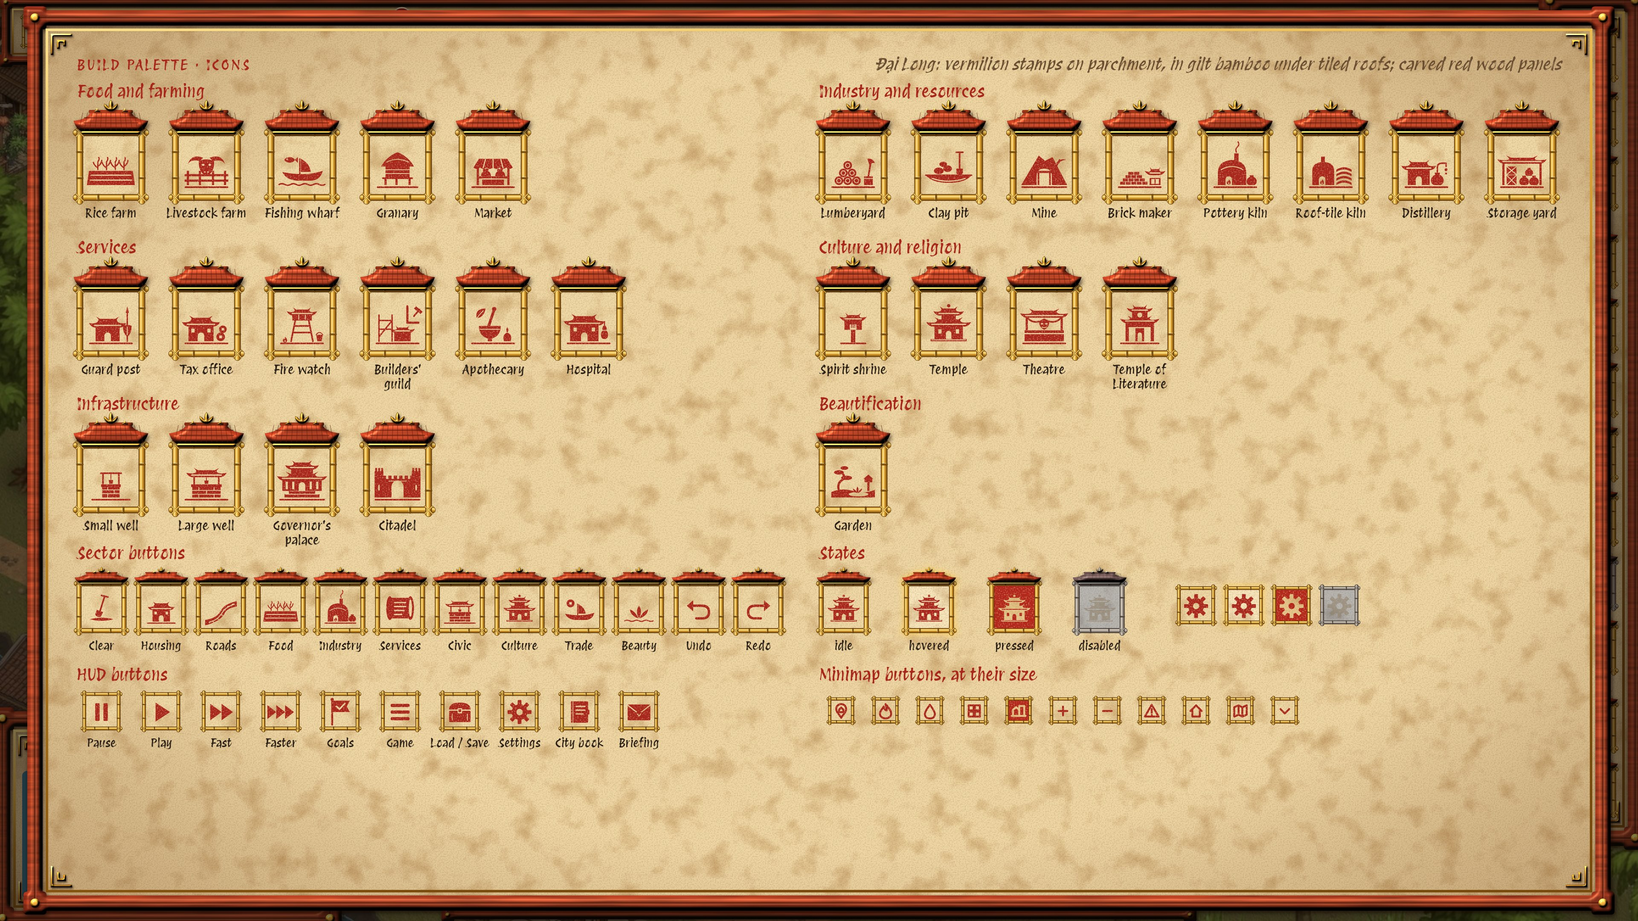
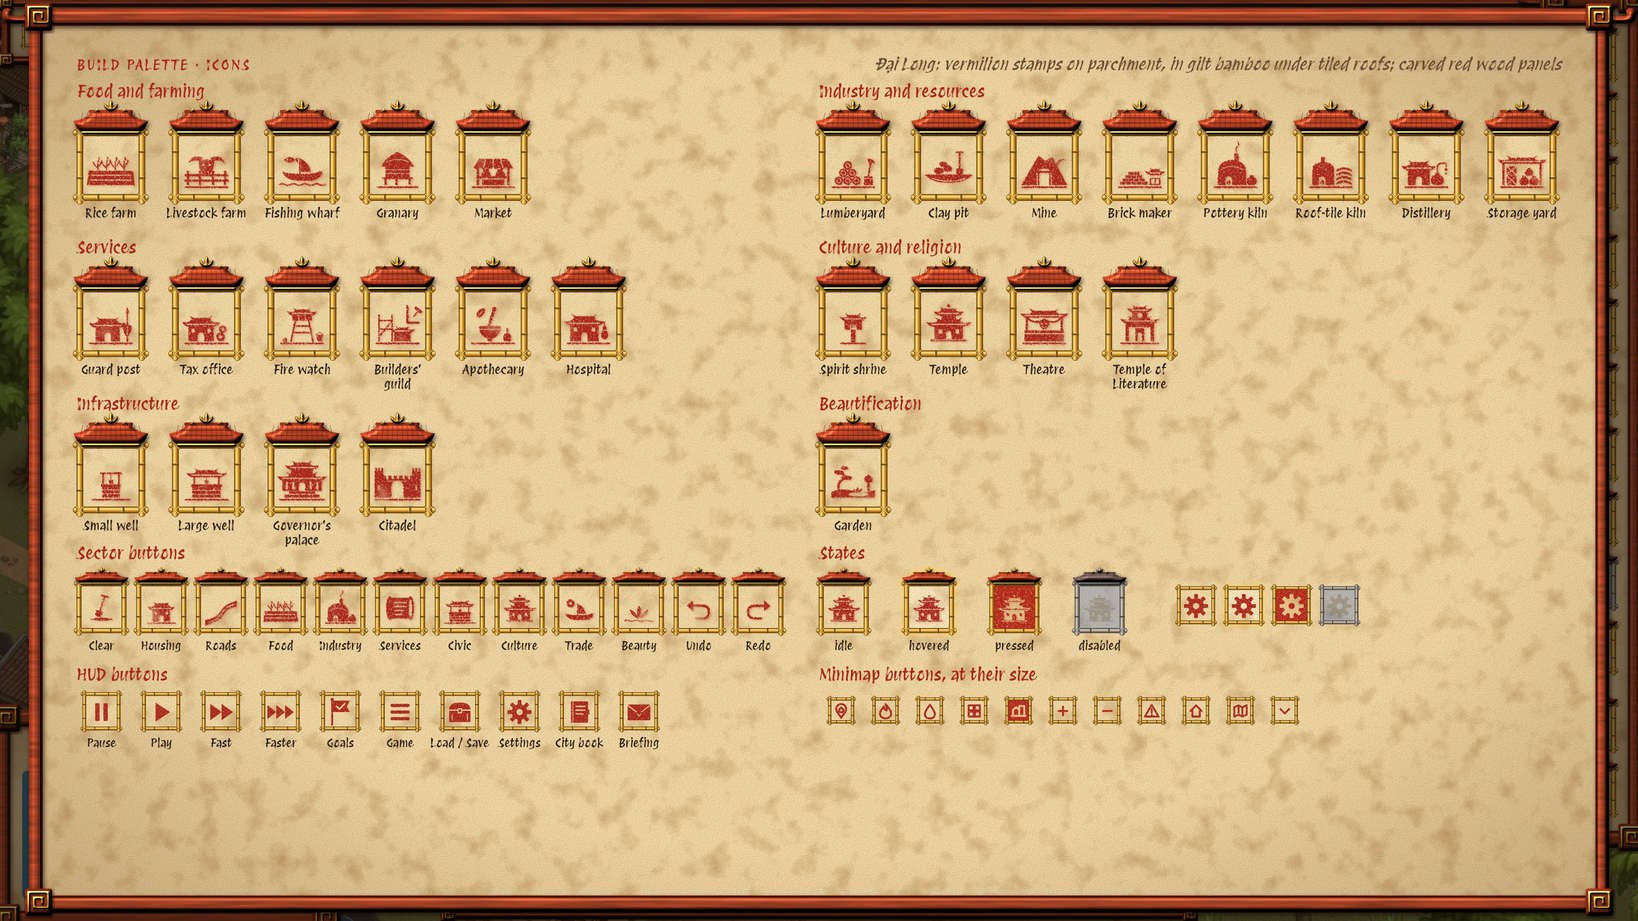
Mockups: goals button first, realm badges, Dai Long's carved frames
The goals button moves to the top bar's left end. Count badges take each
realm's colours. Dai Long's panels become carved wood with a lattice,
ruyi clouds, a lotus medallion and key-pattern corner blocks, all
outside the parchment, without lanterns, after the user's reference;
its stamps are pressed rougher again.

Claude-Session: https://claude.ai/code/session_01E5PQdFiW8ubMzCiZxgcQDM

diff --git a/docs/design/mockups/generator/dailong_carving.py b/docs/design/mockups/generator/dailong_carving.py
@@ -43,6 +43,21 @@ class Woodwork:
                 f'<feComposite in="all" in2="SourceAlpha" operator="in" result="body"/>'
                 f'<feOffset in="b" dx="1.5" dy="2.5" result="o"/><feFlood flood-color="#120603" flood-opacity="0.7"/><feComposite in2="o" operator="in" result="sh"/>'
                 f'<feMerge><feMergeNode in="sh"/><feMergeNode in="body"/></feMerge></filter>')
+        elif name == "stamp":
+            # A hand-pressed stamp: uneven ink, speckled where it missed, ragged edges, a faint double strike.
+            self.defs.append(
+                f'<filter id="{fid}" x="-8%" y="-8%" width="116%" height="116%" color-interpolation-filters="sRGB">'
+                f'<feTurbulence type="fractalNoise" baseFrequency="0.8" numOctaves="2" seed="7" result="n"/>'
+                f'<feDisplacementMap in="SourceGraphic" in2="n" scale="2.2" result="d"/>'
+                f'<feTurbulence type="fractalNoise" baseFrequency="0.5" numOctaves="3" seed="3" result="n2"/>'
+                f'<feColorMatrix in="n2" type="matrix" values="0 0 0 0 0  0 0 0 0 0  0 0 0 0 0  -2.8 0 0 0 2.45" result="holes"/>'
+                f'<feTurbulence type="fractalNoise" baseFrequency="0.035" numOctaves="2" seed="15" result="n3"/>'
+                f'<feColorMatrix in="n3" type="matrix" values="0 0 0 0 0  0 0 0 0 0  0 0 0 0 0  2.6 0 0 0 0.05" result="press"/>'
+                f'<feComposite in="d" in2="holes" operator="in" result="h1"/>'
+                f'<feComposite in="h1" in2="press" operator="in" result="h2"/>'
+                f'<feGaussianBlur in="d" stdDeviation="1.2" result="sm"/><feOffset in="sm" dx="1.6" dy="1" result="smo"/>'
+                f'<feComponentTransfer in="smo" result="ghost"><feFuncA type="linear" slope="0.28"/></feComponentTransfer>'
+                f'<feMerge><feMergeNode in="ghost"/><feMergeNode in="h2"/></feMerge></filter>')
         elif name == "gilt":
             # Gilt carving: a bevel and a bright shine over the gold.
             self.defs.append(
@@ -204,46 +219,94 @@ class Woodwork:
                 + self.cloud(cx - r * 1.05, cy - r * 0.15, r * 1.9, -1) + self.cloud(cx + r * 1.05, cy - r * 0.15, r * 1.9, 1) + "</g>")
 
     # ------------------------------------------------------------ a panel
+    def ruyi_cloud(self, cx, cy, s, side=1):
+        """A carved ruyi cloud centred on (cx, cy), s wide: three lobes, a curl at each end,
+        its tail trailing to `side`."""
+        u = s / 100
+        lobes = "".join(f'<circle cx="{f(cx + dx * u)}" cy="{f(cy + dy * u)}" r="{f(r * u)}"/>'
+                        for dx, dy, r in ((-18, 4, 14), (0, -6, 18), (18, 4, 14), (-6, 10, 12), (8, 10, 12)))
+        base = f'<rect x="{f(cx - 30 * u)}" y="{f(cy + 6 * u)}" width="{f(60 * u)}" height="{f(10 * u)}" rx="{f(5 * u)}"/>'
+        tail = (f'<path d="M{f(cx - side * 28 * u)},{f(cy + 12 * u)} Q{f(cx - side * 50 * u)},{f(cy + 16 * u)} {f(cx - side * 62 * u)},{f(cy + 6 * u)}" '
+                f'fill="none" stroke-width="{f(5 * u)}" stroke-linecap="round"/>'
+                f'<path d="M{f(cx + side * 28 * u)},{f(cy + 12 * u)} Q{f(cx + side * 38 * u)},{f(cy + 14 * u)} {f(cx + side * 44 * u)},{f(cy + 8 * u)}" '
+                f'fill="none" stroke-width="{f(4 * u)}" stroke-linecap="round"/>')
+        curls = "".join(f'<path d="M{f(cx + dx * u - 6 * u)},{f(cy + dy * u)} a{f(6 * u)},{f(6 * u)} 0 1 1 {f(6 * u)},{f(6 * u)}" fill="none" stroke-width="{f(2.6 * u)}" stroke-linecap="round"/>'
+                        for dx, dy in ((-18, 4), (0, -6), (18, 4)))
+        g = self.filt("goldgrad")
+        return (f'<g fill="url(#{g})" stroke="url(#{g})">{lobes}{base}{tail}</g>'
+                f'<g stroke="#6a3c08">{curls}</g>')
+
+    def fret_block(self, cx, cy, s):
+        """A square corner block centred on (cx, cy), s wide, a gilt key pattern carved on it."""
+        g = self.filt("goldgrad")
+        u = s / 10
+        d = (f"M{f(cx - 3.6 * u)},{f(cy + 3.6 * u)} V{f(cy - 3.6 * u)} H{f(cx + 3.6 * u)} V{f(cy + 2 * u)} H{f(cx - 1.6 * u)} "
+             f"V{f(cy - 1.6 * u)} H{f(cx + 1.4 * u)} V{f(cy + 0.4 * u)}")
+        return (f'<g filter="url(#{self.filt("wood")})"><rect x="{f(cx - s / 2)}" y="{f(cy - s / 2)}" width="{f(s)}" height="{f(s)}" rx="{f(s * 0.08)}" fill="#7a2614"/></g>'
+                f'<g filter="url(#{self.filt("gilt")})"><path d="{d}" fill="none" stroke="url(#{g})" stroke-width="{f(u * 1.1)}" stroke-linecap="square"/></g>')
+
+    def beam_end(self, x, y, s, side):
+        """The top beam's end running past the frame, curling up in a scroll."""
+        d = (f"M{f(x)},{f(y)} H{f(x + side * s * 0.7)} Q{f(x + side * s * 1.05)},{f(y)} {f(x + side * s * 1.05)},{f(y - s * 0.35)} "
+             f"Q{f(x + side * s * 1.05)},{f(y - s * 0.62)} {f(x + side * s * 0.8)},{f(y - s * 0.6)} Q{f(x + side * s * 0.62)},{f(y - s * 0.58)} {f(x + side * s * 0.68)},{f(y - s * 0.4)} "
+             f"Q{f(x + side * s * 0.74)},{f(y - s * 0.28)} {f(x + side * s * 0.6)},{f(y - s * 0.3)} H{f(x)}Z")
+        return f'<path d="{d}" fill="#8a321b"/>'
+
     def panel(self, x, y, w, h, big=False, lanterns=None):
-        """A carved wooden frame round parchment: gilt trim inside, key-pattern corners,
-        and for a large panel eaves over its top corners, lanterns and a medallion."""
-        t = 18 if h >= 120 else 10
+        """Carved red wood round parchment, every ornament outside the parchment: a top beam whose
+        ends curl up past the frame, gilt key-pattern blocks on the corners, and for a large panel a
+        lattice and gilt ruyi clouds carved along the top beam, a lotus medallion under a little roof
+        at its middle, and a gilt cloud at the foot."""
+        thin = h < 120
+        t = 10 if thin else (16 if not big else 20)
+        tb = 9 if thin else (20 if not big else 30)       # the top beam
+        bb = t + (0 if thin else 4)                      # the bottom rail
         out = []
-        wood = (f"M{f(x - t)},{f(y - t)} H{f(x + w + t)} V{f(y + h + t)} H{f(x - t)}Z "
-                f"M{f(x)},{f(y)} V{f(y + h)} H{f(x + w)} V{f(y)}Z")
         out.append(f'<rect x="{f(x)}" y="{f(y)}" width="{f(w)}" height="{f(h)}" fill="#efd7a4" filter="url(#{self.filt("paper")})"/>')
         ig = self.uid("dig")
         self.defs.append(f'<radialGradient id="{ig}" cx="0.5" cy="0.5" r="0.75"><stop offset="0.6" stop-color="#5a2a08" stop-opacity="0"/>'
-                         f'<stop offset="1" stop-color="#5a2a08" stop-opacity="0.35"/></radialGradient>')
+                         f'<stop offset="1" stop-color="#5a2a08" stop-opacity="0.3"/></radialGradient>')
         out.append(f'<rect x="{f(x)}" y="{f(y)}" width="{f(w)}" height="{f(h)}" fill="url(#{ig})"/>')
-        out.append(f'<g filter="url(#{self.filt("wood")})"><path d="{wood}" fill="#86301a" fill-rule="evenodd"/>'
-                   + "".join(f'<rect x="{f(cx - t * 0.75)}" y="{f(cy - t * 0.75)}" width="{f(t * 1.5)}" height="{f(t * 1.5)}" rx="{f(t * 0.2)}" fill="#7a2614"/>'
-                             for cx, cy in ((x - t / 2, y - t / 2), (x + w + t / 2, y - t / 2), (x - t / 2, y + h + t / 2), (x + w + t / 2, y + h + t / 2)))
-                   + "</g>")
-        out.append(f'<rect x="{f(x - t * 0.5)}" y="{f(y - t * 0.5)}" width="{f(w + t)}" height="{f(h + t)}" fill="none" stroke="#3a0e04" stroke-width="{f(t * 0.12)}" opacity="0.55"/>'
-                   f'<rect x="{f(x - t * 0.5 + 1)}" y="{f(y - t * 0.5 + 1)}" width="{f(w + t)}" height="{f(h + t)}" fill="none" stroke="#e8885a" stroke-width="{f(t * 0.06)}" opacity="0.35"/>')
-        out.append(f'<g filter="url(#{self.filt("gilt")})">' + "".join(
-            f'<circle cx="{f(cx)}" cy="{f(cy)}" r="{f(t * 0.3)}" fill="url(#{self.filt("goldgrad")})"/>'
-            for cx, cy in ((x - t / 2, y - t / 2), (x + w + t / 2, y - t / 2), (x - t / 2, y + h + t / 2), (x + w + t / 2, y + h + t / 2))) + "</g>")
-        g = self.filt("goldgrad")
-        inset = 3 if t < 12 else 5
-        out.append(f'<rect x="{f(x + inset)}" y="{f(y + inset)}" width="{f(w - 2 * inset)}" height="{f(h - 2 * inset)}" fill="none" stroke="url(#{g})" stroke-width="{2 if t < 12 else 3}"/>')
-        fs = 12 if t < 12 else 22
-        if h >= 60:
-            fi = inset + 6
-            out.append(f'<g filter="url(#{self.filt("gilt")})">'
-                       + self.fret(x + fi, y + fi, fs, 1, 1) + self.fret(x + w - fi, y + fi, fs, -1, 1)
-                       + self.fret(x + fi, y + h - fi, fs, 1, -1) + self.fret(x + w - fi, y + h - fi, fs, -1, -1) + "</g>")
+        wood = (f"M{f(x - t)},{f(y - tb)} H{f(x + w + t)} V{f(y + h + bb)} H{f(x - t)}Z "
+                f"M{f(x)},{f(y)} V{f(y + h)} H{f(x + w)} V{f(y)}Z")
+        ends = ""
+        if not thin:
+            e = tb * 1.5
+            ends = self.beam_end(x - t, y - tb * 0.12, e, -1) + self.beam_end(x + w + t, y - tb * 0.12, e, 1)
+        out.append(f'<g filter="url(#{self.filt("wood")})"><path d="{wood}" fill="#86301a" fill-rule="evenodd"/>{ends}</g>')
+        # The lip round the parchment: a dark cut and a light edge, both on the wood.
+        out.append(f'<rect x="{f(x - 1.5)}" y="{f(y - 1.5)}" width="{f(w + 3)}" height="{f(h + 3)}" fill="none" stroke="#2e0a03" stroke-width="2.4" opacity="0.8"/>'
+                   f'<rect x="{f(x - 4)}" y="{f(y - 4)}" width="{f(w + 8)}" height="{f(h + 8)}" fill="none" stroke="#d9783f" stroke-width="1" opacity="0.4"/>')
         if big:
-            ew = min(150, w * 0.32)
-            out.append(self.roof(x - t + ew * 0.42, y - t * 0.2, ew, ew * 0.26, gilt_top=False))
-            out.append(self.roof(x + w + t - ew * 0.42, y - t * 0.2, ew, ew * 0.26, gilt_top=False))
-            out.append(self.medallion(x + w / 2, y - t * 0.3, min(44, w * 0.09)))
-            out.append(f'<g filter="url(#{self.filt("gilt")})">' + self.lotus(x + w / 2, y + h + t * 0.9, 26)
-                       + self.cloud(x + w / 2 - 18, y + h + t * 0.5, 40, -1) + self.cloud(x + w / 2 + 18, y + h + t * 0.5, 40, 1) + "</g>")
-            if lanterns:
-                ls = lanterns
-                out.append(self.lantern(x - t - 2, y + 4, ls) + self.lantern(x + w + t + 2, y + 4, ls))
+            # A lattice carved into the top beam, either side of the medallion.
+            lat = []
+            step = tb * 0.7
+            for side in (-1, 1):
+                x0, x1 = (x + 30, x + w / 2 - tb * 1.6) if side < 0 else (x + w / 2 + tb * 1.6, x + w - 30)
+                k = x0
+                while k < x1 - step:
+                    lat.append(f"M{f(k)},{f(y - tb * 0.82)} L{f(k + step)},{f(y - tb * 0.18)} M{f(k + step)},{f(y - tb * 0.82)} L{f(k)},{f(y - tb * 0.18)}")
+                    k += step
+            out.append(f'<path d="{" ".join(lat)}" stroke="#3a0e04" stroke-width="2" opacity="0.55"/>')
+            g = self.filt("goldgrad")
+            out.append(f'<g filter="url(#{self.filt("gilt")})">'
+                       + self.ruyi_cloud(x + w * 0.28, y - tb * 0.55, tb * 2.4, -1) + self.ruyi_cloud(x + w * 0.72, y - tb * 0.55, tb * 2.4, 1)
+                       + self.ruyi_cloud(x + w / 2, y + h + bb * 0.6, bb * 3.4, 1) + "</g>")
+            # The medallion: a carved disc with a gilt lotus in a key-pattern ring, under a little roof.
+            r = tb * 1.05
+            mcx, mcy = x + w / 2, y - tb * 0.45
+            out.append(self.roof(mcx, mcy - r * 0.62, r * 3.1, r * 0.75, gilt_top=False))
+            out.append(f'<g filter="url(#{self.filt("wood")})"><circle cx="{f(mcx)}" cy="{f(mcy)}" r="{f(r)}" fill="#7c2814"/></g>')
+            out.append(f'<g filter="url(#{self.filt("gilt")})"><circle cx="{f(mcx)}" cy="{f(mcy)}" r="{f(r * 0.86)}" fill="none" stroke="url(#{g})" stroke-width="{f(r * 0.1)}"/>'
+                       + self.lotus(mcx, mcy + r * 0.38, r * 0.9) + "</g>")
+        # Key-pattern blocks on the corners, outside the parchment.
+        if thin:
+            fs = max(t, tb) * 1.7
+            pts = ((x - t / 2, y - tb / 2), (x + w + t / 2, y - tb / 2), (x - t / 2, y + h + bb / 2), (x + w + t / 2, y + h + bb / 2))
+        else:
+            fs = max(t, tb) * (1.35 if big else 1.6)
+            pts = ((x - t * 0.3, y - tb * 0.5), (x + w + t * 0.3, y - tb * 0.5), (x - t * 0.3, y + h + bb * 0.4), (x + w + t * 0.3, y + h + bb * 0.4))
+        out.append("".join(self.fret_block(cx, cy, fs) for cx, cy in pts))
         return "".join(out)
 
     # ------------------------------------------------------------ an icon tile

diff --git a/docs/design/mockups/generator/palette.py b/docs/design/mockups/generator/palette.py
@@ -238,11 +238,13 @@ class Palette:
         if state == "pressed":  # the seal cut the other way: red ground, the building left bare
             ix, iy, iw, ih = x + th, y + th, size - 2 * th, h - 2 * th
             m = self.mask_of(els, cx, cy, s, inverse=True, box=(ix, iy, iw, ih, 0))
-            ink = f'<g filter="url(#{fl["ink_small"]})"><rect x="{ix}" y="{iy}" width="{iw}" height="{ih}" fill="#b3271b" mask="{m}"/></g>'
+            grain = fl["ink_small"] if small else self.woodwork().filt("stamp")
+            ink = f'<g filter="url(#{grain})"><rect x="{ix}" y="{iy}" width="{iw}" height="{ih}" fill="#b3271b" mask="{m}"/></g>'
         else:
             m = self.mask_of(els, cx, cy, s)
             col = "#a8261c" if state != "disabled" else "#8d7b62"
-            ink = (f'<g filter="url(#{fl["ink_small"]})" opacity="{0.55 if state == "disabled" else 1}">'
+            grain = fl["ink_small"] if small else f'{self.woodwork().filt("stamp")}'
+            ink = (f'<g filter="url(#{grain})" opacity="{0.55 if state == "disabled" else 1}">'
                    f'<rect x="{x}" y="{y}" width="{size}" height="{h}" fill="{col}" mask="{m}"/></g>')
         k = self.crest_k if crest_k is None else crest_k
         markup, _ = self.woodwork().tile(x, y, size, ink, state, small=small, crest=None if small else size * k)
@@ -295,9 +297,12 @@ class Palette:
             self._carving = KC.Carving(self.defs, self.pid)
         return self._carving
 
+    badge_colors = ("#b3271b", "#fff4dc", "#fff")   # fill, ring, text
+
     def badge(self, x, y, text, r=11):
-        return (f'<circle cx="{x}" cy="{y}" r="{r}" fill="#b3271b" stroke="#fff4dc" stroke-width="1.6"/>'
-                + T(x, y + r * 0.42, text, "sans-serif", r * 1.15, "#fff", "middle", 800))
+        fill, ring, ink = self.badge_colors
+        return (f'<circle cx="{x}" cy="{y}" r="{r}" fill="{fill}" stroke="{ring}" stroke-width="1.6"/>'
+                + T(x, y + r * 0.42, text, "sans-serif", r * 1.15, ink, "middle", 800))
 
     # ------------------------------------------------------------ the HUD
     def notch(self, x, y, d):
@@ -337,23 +342,25 @@ class Palette:
         u = self.hud
         x, y, h, bs, step = 12, 8, 58, 36, 42
         items = []
-        bx = x + 14
+        gx = x + 14
+        done = sum(1 for g in u["goals"] if g[2] >= 1)
+        items.append(self.icon_tile(gx, y + 11, bs, hud_glyph("goals"), "pressed" if goals_open else "idle", small=True))
+        items.append(self.badge(gx + bs - 1, y + 12, f"{done}/{len(u['goals'])}", 11))
+        items.append(f'<line x1="{gx + bs + 10}" y1="{y + 12}" x2="{gx + bs + 10}" y2="{y + h - 12}" stroke="{self.panel_rule}" stroke-width="2"/>')
+        bx = gx + bs + 20
         for k, ic in enumerate(["pause", "play", "fast", "faster"]):
             items.append(self.icon_tile(bx + k * step, y + 11, bs, hud_glyph(ic), "pressed" if k == u["speed"] else "idle", small=True))
         tx = bx + 4 * step + 10
         items.append(T(tx, y + 26, u["date"], self.body_font, 17, self.panel_text, "start", 700))
         items.append(T(tx, y + 47, u["season"], self.body_font, 15, self.panel_sub, "start", 600, style="font-style:italic"))
-        gx = tx + 232
-        done = sum(1 for g in u["goals"] if g[2] >= 1)
-        items.append(self.icon_tile(gx, y + 11, bs, hud_glyph("goals"), "pressed" if goals_open else "idle", small=True))
-        items.append(self.badge(gx + bs - 1, y + 12, f"{done}/{len(u['goals'])}", 11))
+        date_end = tx + 232
         sep = lambda sx: f'<line x1="{sx}" y1="{y + 12}" x2="{sx}" y2="{y + h - 12}" stroke="{self.panel_rule}" stroke-width="2"/>'
         w = right - x
         # The game menu at the right end; resources and ratings centred between the goals and it.
         mx = right - 14 - len(MENU_BUTTONS) * step + 6
         for k, (ic, _) in enumerate(MENU_BUTTONS):
             items.append(self.icon_tile(mx + k * step, y + 11, bs, hud_glyph(ic), small=True))
-        left, end = gx + bs + 14, mx - 14
+        left, end = date_end, mx - 14
         mid_w = 3 * 134 + 28 + 4 * 72
         rx = left + (end - left - mid_w) / 2
         items.append(sep(left + 8))
@@ -384,7 +391,7 @@ class Palette:
         u = self.hud
         gw = 440
         gh = 64 + len(u["goals"]) * 66 + 10
-        gx, gy = max(12, bx + 40 - gw), by + 22
+        gx, gy = max(12, bx - 40), by + 22
         out = [self.box(gx, gy, gw, gh), self.notch(bx, gy, "up")]
         out.append(self.section_title(gx + 26, gy + 42, "Goals"))
         out.append(T(gx + gw - 26, gy + 42, u["goals_title"], self.body_font, 19, self.panel_sub, "end", 600, style="font-style:italic"))
@@ -565,17 +572,19 @@ class DaiLongPalette(Palette, D.DaiLongDialogs):
     notch_fill = "#86301a"
     crest_k = 0.3
     tile_h_k = 1.04
+    badge_colors = ("#a8261c", "#e7b13e", "#fff4dc")   # a vermilion seal ringed in gilt
     sector_size = 54
 
     def box(self, x, y, w, h, big=False):
         big = w >= 300 and h >= 220 and y > 120
-        return self.woodwork().panel(x, y, w, h, big=big, lanterns=90 if big else None)
+        return self.woodwork().panel(x, y, w, h, big=big)
 
 
 class KambaraPalette(Palette, D.KambaraDialogs):
     style_line = "carved sandstone, moss and vines, a Bayon face over each"
     notch_fill = "#7c5f3a"
     short_col = "#e8946a"
+    badge_colors = ("#55703a", "#d9c9a0", "#f3ecd6")   # moss on a sandstone ring
     crest_k = 0.34
     tile_h_k = 1.08
     sector_size = 54
@@ -599,6 +608,7 @@ class TampadesaPalette(Palette, D.TampadesaDialogs):
     style_line = "gold leaf on red lacquer, in arched niches"
     notch_fill = "#5b3d24"
     short_col = "#f08a5a"
+    badge_colors = ("#e2b04a", "#5e1810", "#3a1408")   # gold leaf ringed in lacquer
 
     def __init__(self, dd):
         D.TampadesaDialogs.__init__(self, dd)

diff --git a/docs/design/mockups/README.md b/docs/design/mockups/README.md
@@ -87,15 +87,15 @@ Placeholders: the briefing and event text (from campaigns.md where it has it), t
 
 The HUD's build palette (realm-ui.md Phase 5), after the user's requests of 2026-11-14: an icon per building instead of its text label, as in Pharaoh: A New Era. Clicking a sector's button opens its buildings as a grid of icons, four to a row, left of the column; hovering one shows its name and cost (gold, and each material with what's in storage, in the accent colour when short); clicking it picks the building and closes the grid. A building that can't be built yet stays in the grid, faded.
 
-The HUD's top is one bar now, from the left edge to the build column: the speed controls, the date and the goals button at its left, population, treasury, food and the ratings in its middle, and the game menu at its right. The message log is centred at the bottom of the screen. Every button on the HUD takes the same treatment: the sector column, the speed controls, the goals button, the game-menu buttons (Game, Load / Save, Settings, City book, Briefing) and, smaller and plainer so their icons stay readable at 30 points, the minimap's lenses and tools. The minimap is laid out as the game lays it out now: the lenses (the landmarks toggle, risk, water, sectors, city) right-aligned across the top against the tools column (zoom in, zoom out, alerts, home, world map, hide).
+The HUD's top is one bar now, from the left edge to the build column: the goals button first, then the speed controls and the date at its left, population, treasury, food and the ratings in its middle, and the game menu at its right. The message log is centred at the bottom of the screen. Count badges (the goals', the minimap's alerts) take the realm's colours: a vermilion seal ringed in gilt, moss on a sandstone ring, gold leaf ringed in lacquer. Every button on the HUD takes the same treatment: the sector column, the speed controls, the goals button, the game-menu buttons (Game, Load / Save, Settings, City book, Briefing) and, smaller and plainer so their icons stay readable at 30 points, the minimap's lenses and tools. The minimap is laid out as the game lays it out now: the lenses (the landmarks toggle, risk, water, sectors, city) right-aligned across the top against the tools column (zoom in, zoom out, alerts, home, world map, hide).
 
-The goals panel is no longer always open: a goals button (a banner with a tick, its badge counting the goals met) sits in the top bar after the date, and the panel drops down under it, where the goals used to be. The mission's state reads together there (the date, its season and its goals), and the panel opens over the corner of the city least in the way, clear of the build palette on the right.
+The goals panel is no longer always open: a goals button (a banner with a tick, its badge counting the goals met) sits at the top bar's left end, before the speed controls, and the panel drops down under it, where the goals used to be. The mission's state reads together there (the date, its season and its goals), and the panel opens over the corner of the city least in the way, clear of the build palette on the right.
 
 The pictograms are drawn by `palette_glyphs.py` in each realm's architecture (Đại Long's curved tile roofs, Kambara's naga-finialed roofs and lotus-bud prasat, Tampadesa's tiered roofs and stupa), so the temple, shrine and university differ by realm, and every roofed building takes its realm's roof; the HUD's and the minimap's icons are in `palette.py`. Each realm treats them its own way:
 
 | Realm | Treatment | Every icon and its states | The palette open | The HUD at rest, goals open |
 |---|---|---|---|---|
-| Đại Long | Vermilion stamps on parchment in a frame of gilt bamboo lashed at the corners, under a small tiled roof with a gilt lotus, after the user's references; pressed is the stamp cut the other way, red ground with the building bare; the HUD's panels are carved red lacquered wood round parchment, with gilt key-pattern corners, and the large ones get upturned eaves, red lanterns, a gilt medallion and cloud scrolls over the top and a gilt lotus at the foot (`dailong_carving.py`) | [build-icons-dailong.jpg](build-icons-dailong.jpg) | [build-palette-dailong.jpg](build-palette-dailong.jpg) | [hud-goals-dailong.jpg](hud-goals-dailong.jpg) |
+| Đại Long | Vermilion stamps on parchment in a frame of gilt bamboo lashed at the corners, under a small tiled roof with a gilt lotus, after the user's references; pressed is the stamp cut the other way, red ground with the building bare; the stamps are hand-pressed: uneven ink, speckled, ragged at the edges, with a faint double strike; the HUD's panels are carved red lacquered wood round parchment, every ornament outside the parchment: a top beam curling up past the corners, gilt key-pattern blocks on the corners, and on the large ones a lattice and gilt ruyi clouds carved along the top beam, a lotus medallion under a little roof at its middle and a gilt cloud at the foot (`dailong_carving.py`) | [build-icons-dailong.jpg](build-icons-dailong.jpg) | [build-palette-dailong.jpg](build-palette-dailong.jpg) | [hud-goals-dailong.jpg](hud-goals-dailong.jpg) |
 | Kambara | Carved sandstone, after the user's references: a frame of weathered blocks with corner volutes, a Bayon face crowning it, moss and hanging vines, a dark cracked panel and the building in relief, lit from the top left; pressed sinks the relief, hovered glows; the HUD's panels are the same carved frames, the large ones crowned too, and its accents (icons, bars, rings, titles) are moss green on stone (`kambara_carving.py`) | [build-icons-kambara.jpg](build-icons-kambara.jpg) | [build-palette-kambara.jpg](build-palette-kambara.jpg) | [hud-goals-kambara.jpg](hud-goals-kambara.jpg) |
 | Tampadesa | Gold leaf on red lacquer in an arched, gilt niche; pressed is gold ground with the building in lacquer; disabled is tarnished, the leaf worn off | [build-icons-tampadesa.jpg](build-icons-tampadesa.jpg) | [build-palette-tampadesa.jpg](build-palette-tampadesa.jpg) | [hud-goals-tampadesa.jpg](hud-goals-tampadesa.jpg) |
 
